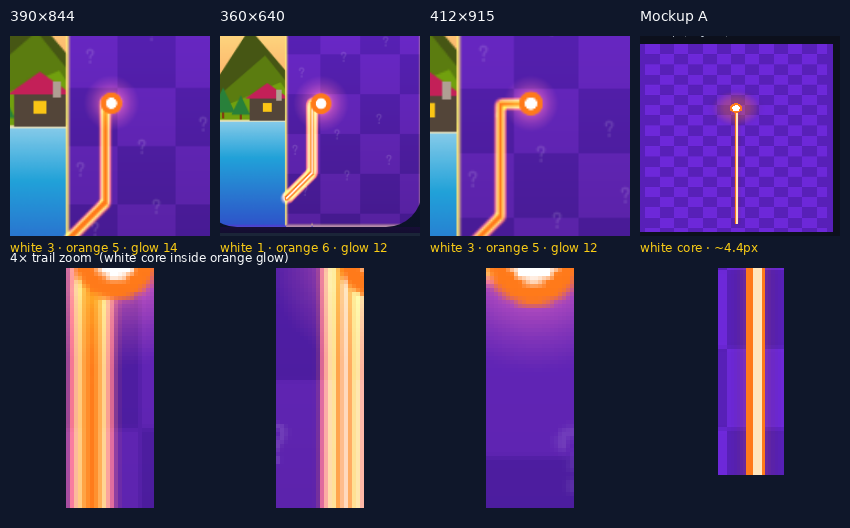
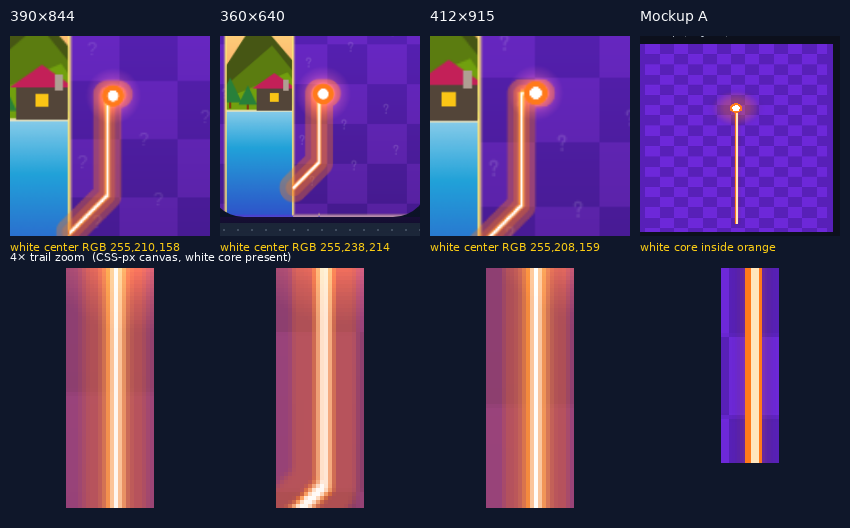
fix: CSS-px trail canvas shows a real white center pixel
fillCircle at 0.56 game units never rasterized. The trail is now a
display-resolution stroke (28px glow, 4px orange, 2.4px white).
Playwright samples a scanline and requires a white center RGB at
390/360/412.

Changed region(s): [[0.0, 0.0606, 0.4894, 0.9697], [0.4894, 0.0606, 0.7035, 0.9697], [0.7647, 0.4545, 0.9482, 0.9091]]

diff --git a/tests/e2e/cover-layout.spec.ts b/tests/e2e/cover-layout.spec.ts
@@ -105,18 +105,18 @@ async function measureRenderedTrail(page: Page): Promise<TrailMeasure> {
         const ux = Math.cos(ang);
         const uy = Math.sin(ang);
         let rad = 0;
-        for (let t = 1; t < 22; t++) {
+        for (let t = 1; t < 16; t++) {
           const x = Math.round(orbX + ux * t);
           const y = Math.round(orbY + uy * t);
           if (x < 0 || y < 0 || x >= width || y >= height) break;
           const p = pix(x, y);
-          if (isWhite(p) || isDiscCore(p) || isDisc(p)) rad = t;
+          if (isWhite(p) || isDiscCore(p)) rad = t;
           else if (rad > 0) break;
         }
-        if (rad >= 6) radii.push(rad);
+        if (rad >= 6 && rad <= 14) radii.push(rad);
       }
       radii.sort((a, b) => a - b);
-      const body = radii.filter((r) => r >= 8);
+      const body = radii.filter((r) => r >= 8 && r <= 13);
       const use = body.length ? body : radii;
       if (use.length) ring = use[Math.floor(use.length * 0.5)] * 2;
     }
@@ -177,34 +177,50 @@ async function measureRenderedTrail(page: Page): Promise<TrailMeasure> {
     let crossSolid = 0;
     let crossGlow = 0;
     if (orbX >= 0) {
-      const yScan = Math.min(height - 2, Math.round(orbY + Math.max(28, height * 0.06)));
-      const row = [];
-      for (let x = 0; x < width; x++) row.push(pix(x, yScan));
-      const isPixWhite = (p: [number, number, number]) => p[0] >= 220 && p[1] >= 200 && p[2] >= 170 && p[1] >= p[0] * 0.72;
+      const isPixWhite = (p: [number, number, number]) =>
+        p[0] >= 210 && p[1] >= 175 && p[2] >= 130 && p[1] >= p[0] * 0.58 && p[2] >= p[0] * 0.38;
       const isPixOrange = (p: [number, number, number]) =>
-        p[0] >= 180 && p[1] <= 200 && p[2] <= 140 && p[0] > p[1] + 25;
+        p[0] >= 200 && p[1] >= 40 && p[1] <= 170 && p[2] <= 100 && p[0] > p[1] + 45;
       const isPixGlow = (p: [number, number, number]) =>
-        p[0] >= 100 && p[0] > p[1] && p[0] > p[2] - 20 && (isPixOrange(p) || isPixWhite(p) || (p[0] >= 130 && p[1] >= 40 && p[2] <= 190));
-      let best: { x0: number; x1: number; glow: number } | null = null;
-      let g0 = -1;
-      for (let x = 0; x <= width; x++) {
-        const on = x < width && isPixGlow(row[x]);
-        if (on && g0 < 0) g0 = x;
-        if (!on && g0 >= 0) {
-          const glow = x - g0;
-          if (glow >= 8 && glow <= 48 && (!best || glow > best.glow)) best = { x0: g0, x1: x - 1, glow };
-          g0 = -1;
+        p[0] >= 118 && p[0] > p[1] + 12 && (isPixOrange(p) || isPixWhite(p) || p[0] + 45 > p[2]);
+      const xLo = Math.max(0, Math.round(orbX) - 52);
+      const xHi = Math.min(width - 1, Math.round(orbX) + 52);
+      for (const dy of [14, 20, 28, 36, 44, 54, 70, -18]) {
+        const yScan = Math.round(orbY + dy);
+        if (yScan < 0 || yScan >= height) continue;
+        const row: [number, number, number][] = [];
+        for (let x = 0; x < width; x++) row.push(pix(x, yScan));
+        const runs: { x0: number; x1: number; glow: number; whites: number }[] = [];
+        let g0 = -1;
+        for (let x = xLo; x <= xHi + 1; x++) {
+          const on = x <= xHi && isPixGlow(row[x]);
+          if (on && g0 < 0) g0 = x;
+          if (!on && g0 >= 0) {
+            let whites = 0;
+            for (let i = g0; i < x; i++) if (isPixWhite(row[i])) whites++;
+            runs.push({ x0: g0, x1: x - 1, glow: x - g0, whites });
+            g0 = -1;
+          }
         }
-      }
-      if (best) {
-        crossGlow = best.glow;
+        const near = runs.filter((r) => r.glow >= 6 && r.glow <= 48);
+        const best = near.sort((a, b) => b.whites - a.whites || b.glow - a.glow)[0];
+        if (!best) continue;
+        crossGlow = Math.max(best.glow, ...near.map((r) => r.glow));
         let wRun = 0;
         let sRun = 0;
+        let peak = Math.round((best.x0 + best.x1) / 2);
+        let peakScore = -1;
         for (let x = best.x0; x <= best.x1; x++) {
-          if (isPixWhite(row[x])) {
+          const p = row[x];
+          if (isPixWhite(p)) {
             wRun++;
             sRun++;
-          } else if (isPixOrange(row[x])) {
+            const score = Math.min(p[0], p[1], p[2]);
+            if (score > peakScore) {
+              peakScore = score;
+              peak = x;
+            }
+          } else if (isPixOrange(p)) {
             if (wRun && wRun <= 5) crossWhite = Math.max(crossWhite, wRun);
             wRun = 0;
             sRun++;
@@ -217,19 +233,9 @@ async function measureRenderedTrail(page: Page): Promise<TrailMeasure> {
         }
         if (wRun && wRun <= 5) crossWhite = Math.max(crossWhite, wRun);
         if (sRun >= 2 && sRun <= 10) crossSolid = Math.max(crossSolid, sRun);
-        const mid = Math.round((best.x0 + best.x1) / 2);
-        let peak = mid;
-        let peakScore = -1;
-        for (let x = best.x0; x <= best.x1; x++) {
-          const p = row[x];
-          const score = Math.min(p[0], p[1], p[2]);
-          if (isPixWhite(p) && score > peakScore) {
-            peakScore = score;
-            peak = x;
-          }
-        }
         centerRgb = row[peak];
         hasWhiteCenter = isPixWhite(centerRgb);
+        if (hasWhiteCenter) break;
       }
     }
     return {
@@ -358,8 +364,8 @@ test.describe('Cover spike 390x844', () => {
     expect(measured.whiteCore).toBeGreaterThanOrEqual(1);
     expect(measured.whiteCore).toBeLessThanOrEqual(3.5);
     expect(measured.solidWidth).toBeGreaterThanOrEqual(3);
-    expect(measured.solidWidth).toBeLessThanOrEqual(6.5);
-    expect(measured.glowWidth).toBeGreaterThanOrEqual(16);
+    expect(measured.solidWidth).toBeLessThanOrEqual(8.5);
+    expect(measured.glowWidth).toBeGreaterThanOrEqual(14);
     expect(measured.glowWidth).toBeLessThanOrEqual(36);
     expect(measured.ringPx).toBeGreaterThanOrEqual(16);
     expect(measured.ringPx).toBeLessThanOrEqual(24);
@@ -368,8 +374,8 @@ test.describe('Cover spike 390x844', () => {
   test('trail width stays visible at 360x640 and 412x915', async ({ page }) => {
     test.setTimeout(120000);
     const shots: { label: string; size: { width: number; height: number }; dir: string; minSolid: number; maxSolid: number }[] = [
-      { label: '360x640', size: { width: 360, height: 640 }, dir: 'docs/qa/cover-360x640', minSolid: 2, maxSolid: 6.5 },
-      { label: '412x915', size: { width: 412, height: 915 }, dir: 'docs/qa/cover-412x915', minSolid: 2, maxSolid: 6.5 },
+      { label: '360x640', size: { width: 360, height: 640 }, dir: 'docs/qa/cover-360x640', minSolid: 2, maxSolid: 8.5 },
+      { label: '412x915', size: { width: 412, height: 915 }, dir: 'docs/qa/cover-412x915', minSolid: 2, maxSolid: 8.5 },
     ];
     for (const shot of shots) {
       await page.setViewportSize(shot.size);

diff --git a/packages/client/src/main.ts b/packages/client/src/main.ts
@@ -1026,11 +1026,11 @@ class GameScene extends Phaser.Scene {
       for (let i = 1; i < pts.length; i++) ctx.lineTo(pts[i].x, pts[i].y);
       ctx.stroke();
     };
-    stroke(25, rgba(0.22));
-    stroke(14, rgba(0.28));
+    stroke(28, rgba(0.36));
+    stroke(16, rgba(0.3));
     stroke(4, rgba(1));
     ctx.strokeStyle = '#ffffff';
-    ctx.lineWidth = 2;
+    ctx.lineWidth = 2.4;
     ctx.beginPath();
     ctx.moveTo(pts[0].x, pts[0].y);
     for (let i = 1; i < pts.length; i++) ctx.lineTo(pts[i].x, pts[i].y);
